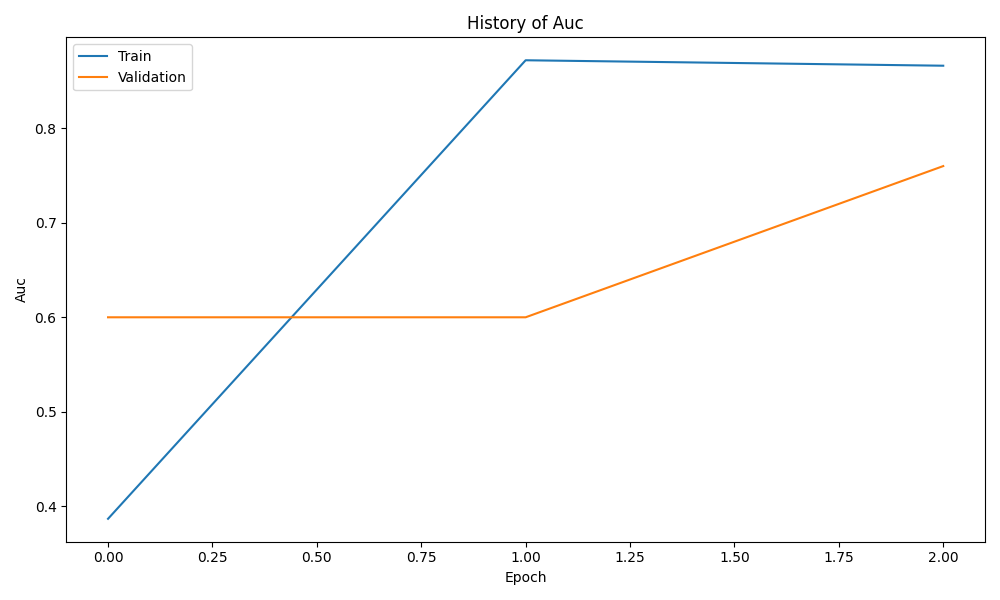
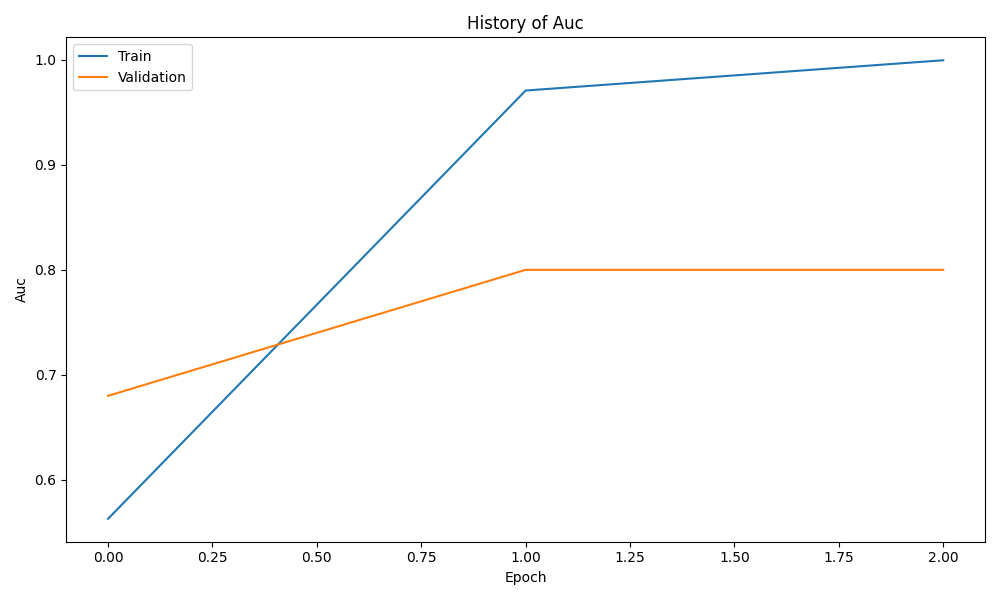
train test stratify

diff --git a/neural_network_model/transfer_learning.py b/neural_network_model/transfer_learning.py
@@ -352,6 +352,7 @@ class TransferModel(Preprocessing, BitVision):
             train_size=train_size,
             shuffle=shuffle,
             random_state=random_state,
+            stratify=self.image_df[TRANSFER_LEARNING_SETTING.DF_Y_COL_NAME],  # Add stratify option
         )
         return train_df, test_df
 

diff --git a/neural_network_model/model.py b/neural_network_model/model.py
@@ -226,7 +226,7 @@ class TransferLearnignSetting(Setting):
 
     TRAIN_SIZE: float = 0.9
     SHUFFLE: bool = True
-    RANDOM_STATE: int = 1
+    RANDOM_STATE: int = 42
 
     # training
     VALIDATION_SPLIT: float = 0.1
